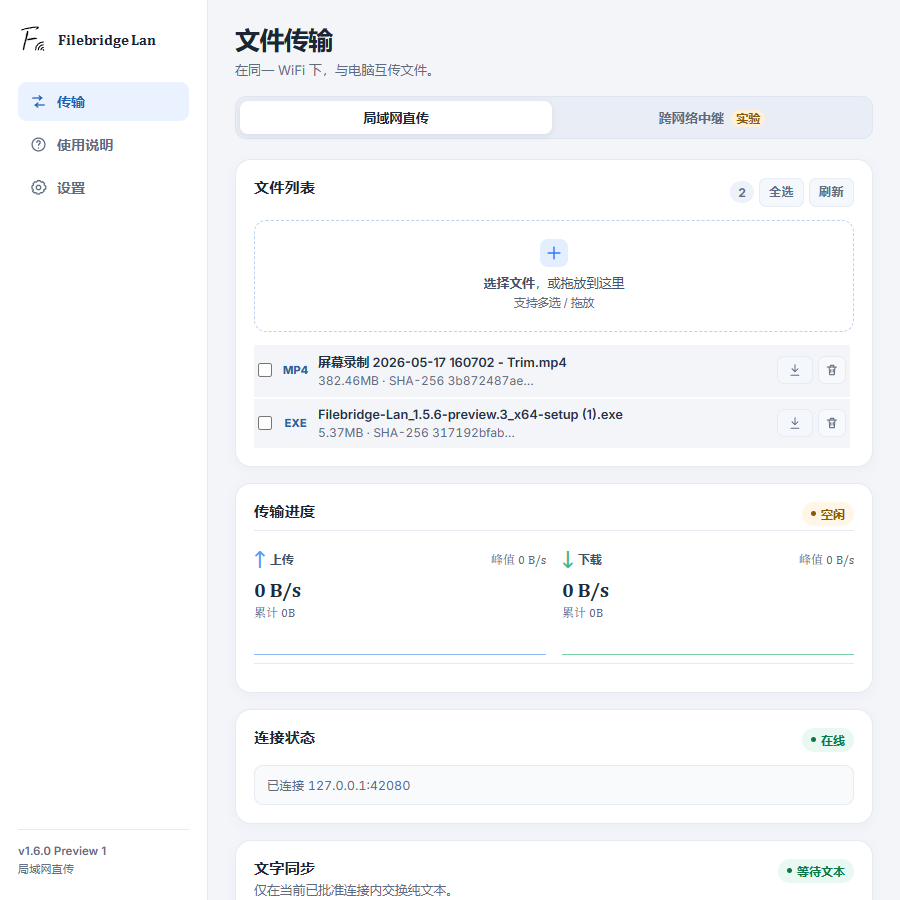
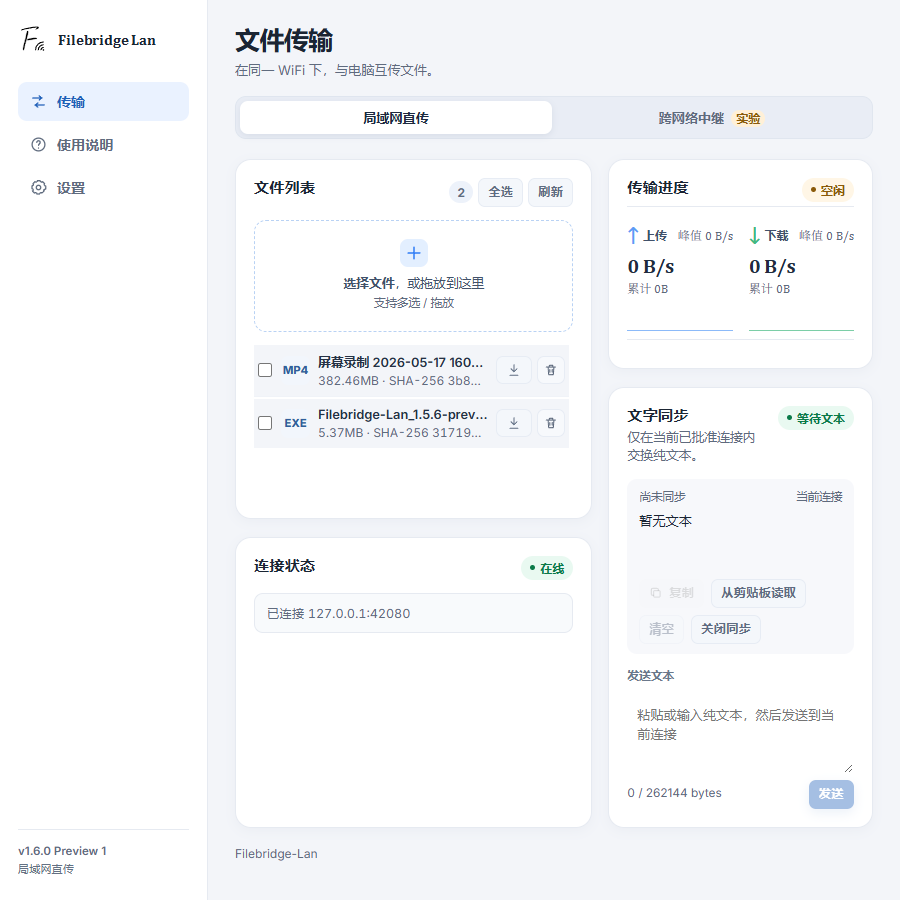
style: keep dashboard columns in default window

diff --git a/src/dashboard.css b/src/dashboard.css
@@ -3136,10 +3136,10 @@ input {
   display: contents;
 }
 
-/* Annotation follow-up: primary work cards share one fixed row on wide desktops. */
-@media (min-width: 1180px) {
+/* Annotation follow-up: primary work cards share one fixed row on desktops. */
+@media (min-width: 900px) {
   .dashboard-grid {
-    grid-template-columns: minmax(0, 1.45fr) minmax(340px, 1fr);
+    grid-template-columns: minmax(0, 1.35fr) minmax(260px, 1fr);
     grid-template-areas:
       "left right"
       "nearby nearby";
@@ -3199,7 +3199,9 @@ input {
     min-height: 0;
     overflow: auto;
   }
+}
 
+@media (min-width: 1180px) {
   .settings-page {
     display: grid;
     grid-template-columns: minmax(0, 1.35fr) minmax(320px, 1fr);
